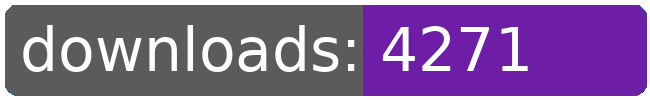
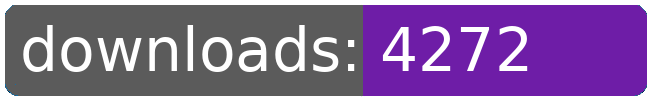
dl log written

Changed region(s): [[0.7692, 0.24, 0.8308, 0.69]]

diff --git a/README.md b/README.md
@@ -21,8 +21,8 @@
 		<td>4189</td>
 		<td>4217</td>
 		<td>4250</td>
-		<td>4271</td>
-		<td>+ 21</td>
+		<td>4272</td>
+		<td>+ 22</td>
 	</tr>
 	<tr>
 		<td>aberrant.kahet.outfitter</td>
@@ -274,8 +274,8 @@
 		<td></td>
 		<td></td>
 		<td></td>
-		<td>63937</td>
-		<td>313</td>
+		<td>63938</td>
+		<td>314</td>
 	</tr>
 </table>
 </sub></sup>
@@ -311,8 +311,8 @@
 		<td>4189</td>
 		<td>4217</td>
 		<td>4250</td>
-		<td>4271</td>
-		<td>+ 21</td>
+		<td>4272</td>
+		<td>+ 22</td>
 	</tr>
 	<tr>
 		<td>bunrodeaoutfitter</td>
@@ -553,8 +553,8 @@
 		<td></td>
 		<td></td>
 		<td></td>
-		<td>63937</td>
-		<td>313</td>
+		<td>63938</td>
+		<td>314</td>
 	</tr>
 </table>
 </sub></sup>
